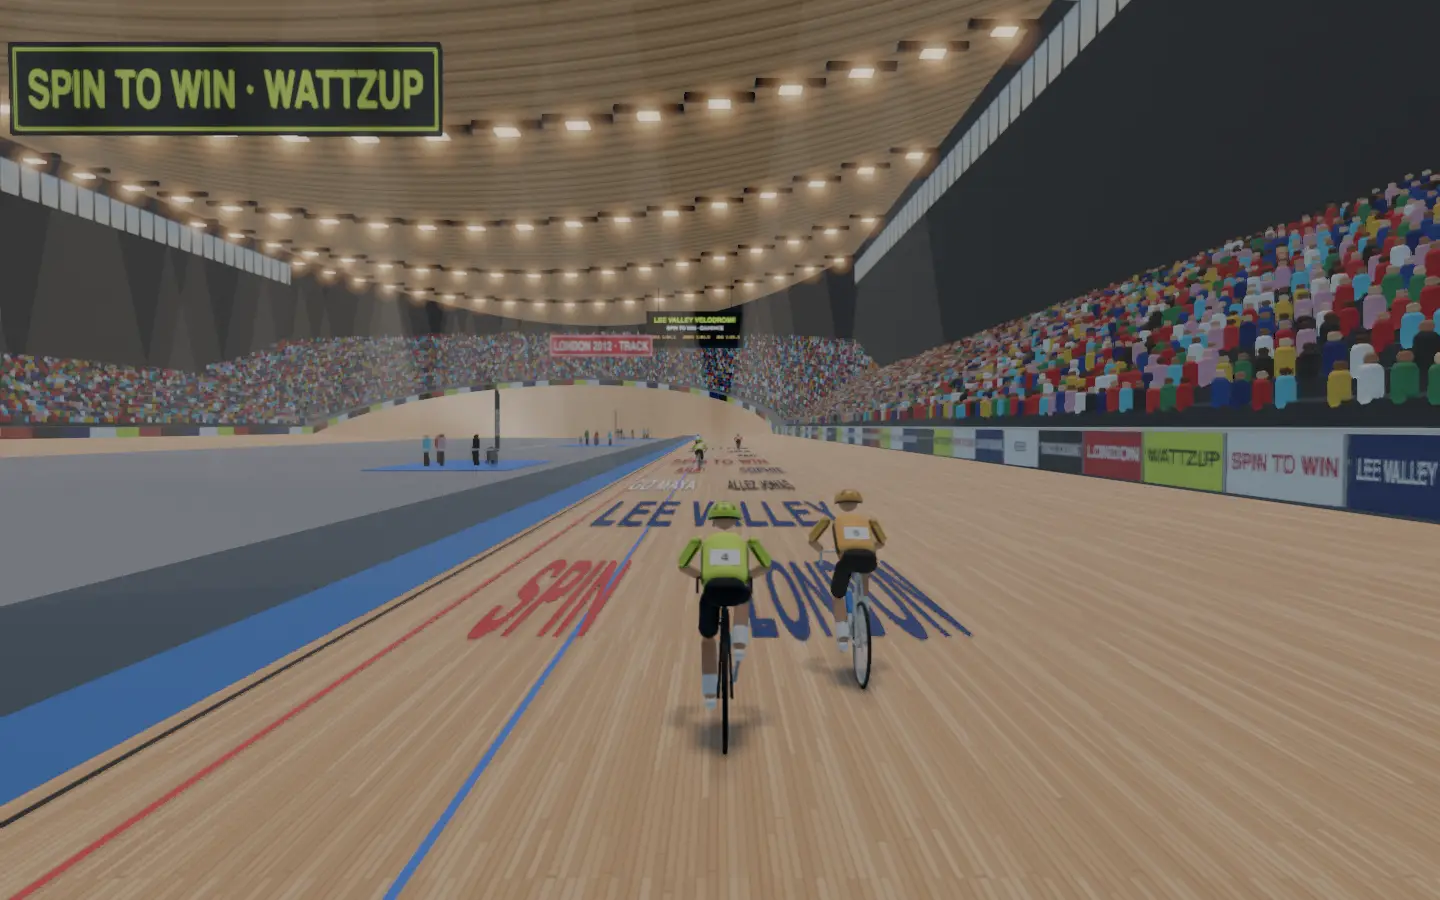
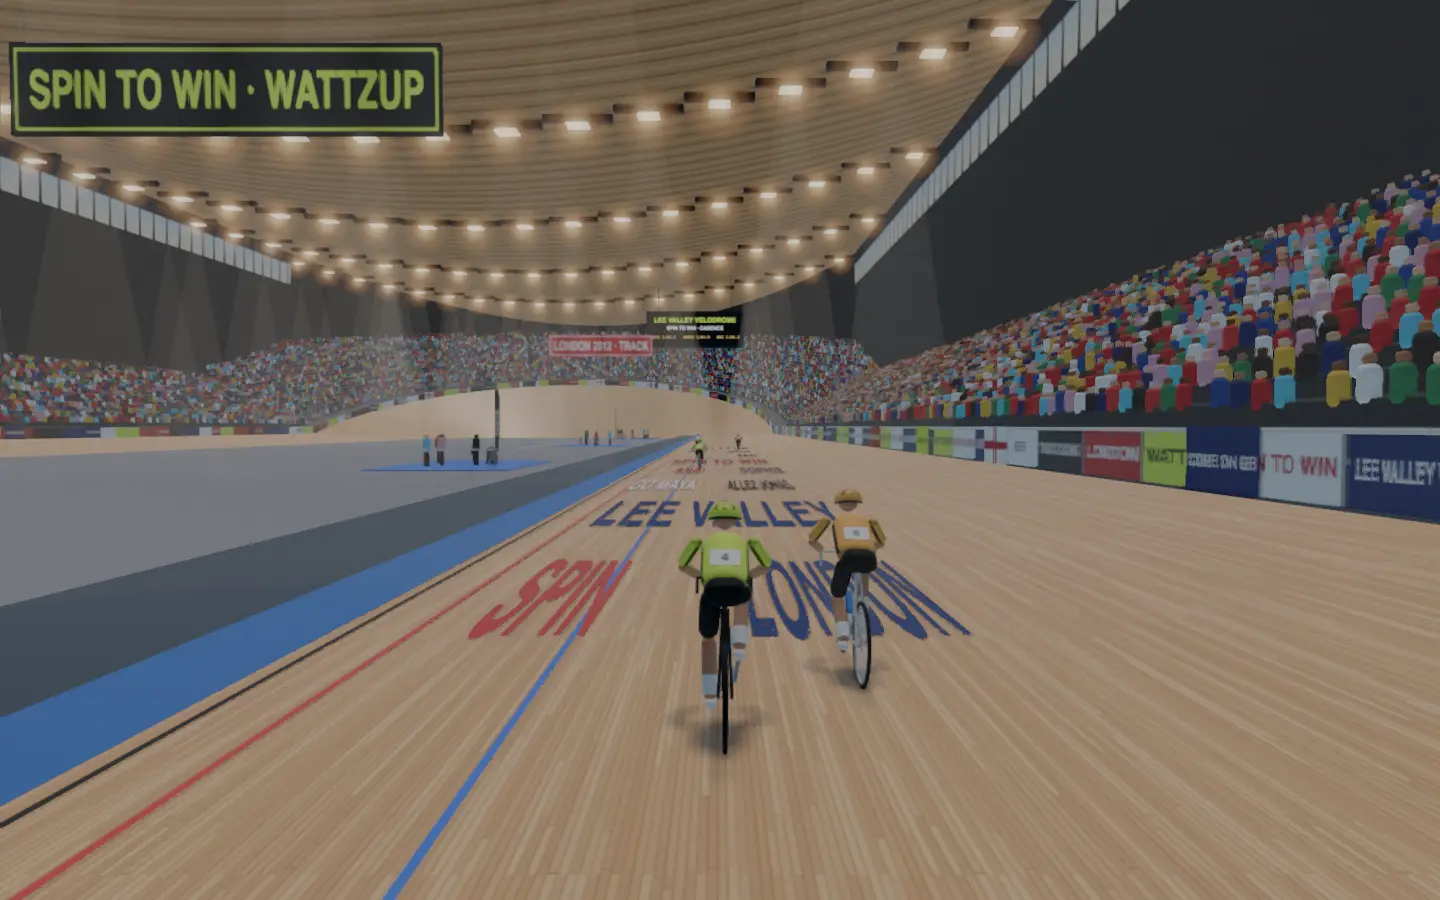
Drape the fans' flags over Lee Valley's fence

diff --git a/frontend/projects/wattzup/src/app/core/world-velodrome.ts b/frontend/projects/wattzup/src/app/core/world-velodrome.ts
@@ -140,6 +140,9 @@ export class VelodromeStreet implements SceneStreet {
   private readonly ribbons: Ribbons;
   private readonly props: Prop[] = [];
   private readonly horizon = new Group();
+  /** A fan's flag draped over the fence, and the flags and banners the fans bring. */
+  private readonly drape = new PlaneGeometry(1.8, 1.1);
+  private flags: MeshStandardMaterial[] = [];
   /** The roof's and the walls' textures, slid along as the rider rides. */
   private readonly sliding: { texture: Texture; every: number }[] = [];
 
@@ -152,6 +155,11 @@ export class VelodromeStreet implements SceneStreet {
   }
 
   build(roadHalf: number, points: number): void {
+    this.disposables.push(this.drape);
+    this.flags = FAN_FLAGS.map((draw) => {
+      const map = this.track(canvasTexture(240, 150, draw));
+      return this.material({ map, roughness: 0.85, side: DoubleSide });
+    });
     this.addTrack(roadHalf, points);
     this.addStands();
     this.addBackStraight();
@@ -297,6 +305,18 @@ export class VelodromeStreet implements SceneStreet {
       figures.set(i, x, y, z, side > 0 ? Math.PI / 2 : -Math.PI / 2, 0.8 + random() * 0.12),
     );
     figures.commit();
+    // The fans' flags draped over the fence from its rail, on the track's side.
+    const top = RISE + 1.1;
+    for (
+      let z = -STAND_CHUNK / 2 + 4 + random() * 4;
+      z < STAND_CHUNK / 2 - 3;
+      z += 7 + random() * 6
+    ) {
+      const flag = new Mesh(this.drape, this.flags[Math.floor(random() * this.flags.length)]!);
+      flag.rotation.y = side > 0 ? -Math.PI / 2 : Math.PI / 2;
+      flag.position.set(-side * 1.66, top - 0.55, z);
+      holder.add(flag);
+    }
     return holder;
   }
 
@@ -678,6 +698,18 @@ export class VelodromeStreet implements SceneStreet {
       figures.set(i, x, y, z, heading, 0.8 + random() * 0.12);
     });
     figures.commit();
+    // The fans' flags draped over the bend's fence, facing the infield.
+    for (let phi = 0.15; phi < Math.PI - 0.1; phi += 0.11 + random() * 0.08) {
+      const radius = R_OUT - 0.06;
+      const flag = new Mesh(this.drape, this.flags[Math.floor(random() * this.flags.length)]!);
+      flag.position.set(
+        BEND_X + radius * Math.cos(phi),
+        top(phi) + 1.1 - 0.55,
+        -radius * Math.sin(phi),
+      );
+      flag.rotation.y = Math.atan2(BEND_X - flag.position.x, -flag.position.z);
+      h.add(flag);
+    }
     // The wall behind the stands, up to the roof.
     const back = R_OUT + 1.6 + BEND_ROWS * ROW_DEPTH + 1;
     const wallMap = this.track(wallTexture(roofAt(BEND_X)));
@@ -755,6 +787,57 @@ export class VelodromeStreet implements SceneStreet {
     this.disposables.push(material);
     return material;
   }
+}
+
+/** The fans' flags: the Union flag, England's cross, and banners for the riders and the track. */
+const FAN_FLAGS: readonly ((g: CanvasRenderingContext2D) => void)[] = [
+  (g) => {
+    // The Union flag.
+    g.fillStyle = '#012169';
+    g.fillRect(0, 0, 240, 150);
+    g.lineCap = 'butt';
+    for (const [w, colour] of [
+      [30, '#ffffff'],
+      [10, '#c8102e'],
+    ] as const) {
+      g.strokeStyle = colour;
+      g.lineWidth = w;
+      g.beginPath();
+      g.moveTo(0, 0);
+      g.lineTo(240, 150);
+      g.moveTo(240, 0);
+      g.lineTo(0, 150);
+      g.stroke();
+    }
+    g.fillStyle = '#ffffff';
+    g.fillRect(100, 0, 40, 150);
+    g.fillRect(0, 55, 240, 40);
+    g.fillStyle = '#c8102e';
+    g.fillRect(108, 0, 24, 150);
+    g.fillRect(0, 63, 240, 24);
+  },
+  (g) => {
+    // England's cross of St George.
+    g.fillStyle = '#ffffff';
+    g.fillRect(0, 0, 240, 150);
+    g.fillStyle = '#c8102e';
+    g.fillRect(104, 0, 32, 150);
+    g.fillRect(0, 59, 240, 32);
+  },
+  (g) => banner(g, '#d7ff3a', '#1b1e24', 'GO MAYA!'),
+  (g) => banner(g, '#012169', '#ffffff', 'COME ON GB'),
+  (g) => banner(g, '#c8102e', '#ffffff', 'ALLEZ JONAS'),
+];
+
+/** A fan's hand-made banner: big letters on a bright sheet. */
+function banner(g: CanvasRenderingContext2D, fill: string, ink: string, text: string): void {
+  g.fillStyle = fill;
+  g.fillRect(0, 0, 240, 150);
+  g.fillStyle = ink;
+  g.font = 'bold 40px sans-serif';
+  g.textAlign = 'center';
+  g.textBaseline = 'middle';
+  g.fillText(text, 120, 78, 224);
 }
 
 /**

diff --git a/docs/class-worlds.md b/docs/class-worlds.md
@@ -58,7 +58,7 @@ Every class in `frontend/public/classes.json`, with its World Ride scene. Render
 | 52 | Sprint Into the Effort | Dubai Marina | 80% | The marina walk runs along the water at dusk between the glass towers of Dubai Marina, superyachts moored at the pontoons and palms in their planters, as a crowd in white kandura and bright summer colours lines the barriers and the twisting Cayan Tower glows against the orange and violet sky ahead. The two minutes' warm-up rolls out under the first sprint banner, the half-minute sprints flash past the yachts at full gas, and the three-minute efforts hold the pace past the lit cafés of the podium before the easy minutes spin beneath the towers. |
 | 53 | 20/40 Interval Session | Sea Point, Cape Town | 74% | Promenade beneath Lion's Head and Table Mountain, Atlantic waves rolling in. |
 | 54 | Time to Spin Out | Overseas Highway (concept) |  | Turquoise water on both sides along the Florida Keys' Seven Mile Bridge. |
-| 55 | Spin to Win Cadence Session | Lee Valley Velodrome | 79% | The pale pine boards of London's Olympic velodrome sweep up into the steep banked bends under the bright arena lights and the curved timber roof, as the packed stands roar above the fence and the teams wait with their bikes in the infield. The minute's warm-up rolls round the black line, the one-minute efforts lift the cadence up the banking toward the stayers' line, and the long efforts of three and a half minutes hold the spin down the straights before the easy minutes drop back to the blue band. |
+| 55 | Spin to Win Cadence Session | Lee Valley Velodrome | 80% | The pale pine boards of London's Olympic velodrome sweep up into the steep banked bends under the bright arena lights and the curved timber roof, as the packed stands roar above the fence and the teams wait with their bikes in the infield. The minute's warm-up rolls round the black line, the one-minute efforts lift the cadence up the banking toward the stayers' line, and the long efforts of three and a half minutes hold the spin down the straights before the easy minutes drop back to the blue band. |
 | 56 | High Intensity, Short Rest | Montreal Jazz Fest | 72% | Downtown stages and street crowds in summer; short rests between sets. |
 | 57 | Full Gas Sprints | Isle of Man Mountain Course (concept) |  | Stone walls and Snaefell's mountain road on the famous motorcycle course. |
 | 58 | Spin to Win | Coney Island Boardwalk (concept) |  | Wooden boardwalk, roller coaster and Wonder Wheel on the Brooklyn shore. |

diff --git a/docs/detailed-designs/world-ride/draw-class-scene/README.md b/docs/detailed-designs/world-ride/draw-class-scene/README.md
@@ -546,7 +546,7 @@ None.
   - the green ridges and the summit ahead, and banks of low cloud drifting up the mountain on the ride's clock, keeping their bearing.
 - **Lee Valley Velodrome (`core/world-velodrome.ts`).** For `velodrome`, London's Olympic track indoors under the arena lights:
   - the home straight's pale Siberian pine boards laid along the track, flat where the riders ride and rising 1 m to the fence 8 m off the crown, the black measurement line, the red sprinters' line and the blue stayers' line underfoot, the blue côte d'azur and the safety zone inside them, names and sponsors painted on the boards every 9 m (GO MAYA, SPIN, LONDON and more), every third row a slogan right across (LEE VALLEY, SPIN TO WIN, WATTZUP), laid by the kit's painted rows;
-  - the fence along the top of the banking hung with the event's boards (LEE VALLEY VELOPARK, SPIN TO WIN, WATTZUP, LONDON, TRACK CYCLING, GB) under a white rail, and banners hung from the roof over the infield (LEE VALLEY VELOPARK, SPIN TO WIN · WATTZUP, LONDON 2012 · TRACK);
+  - the fence along the top of the banking hung with the event's boards (LEE VALLEY VELOPARK, SPIN TO WIN, WATTZUP, LONDON, TRACK CYCLING, GB) under a white rail, the fans' flags draped over it from the rail on the track's side every 7 to 13 m along both straights and round the bend (the Union flag, England's cross, and hand-made banners: GO MAYA!, COME ON GB, ALLEZ JONAS), and banners hung from the roof over the infield (LEE VALLEY VELOPARK, SPIN TO WIN · WATTZUP, LONDON 2012 · TRACK);
   - the stands above the fence: fourteen stepped rows of dark seats, a spectator (the kit's figures) in nearly every one in GB red, white and blue and club colours, facing the boards;
   - the infield: the teams' pens on blue floor behind a low rail, bikes and spare wheels, the staff, and the kit's feather flags in the teams' colours, and across it the back straight's banked boards, its fence and its own packed stands;
   - the hall: the curved timber roof sagging over the infield and rising to the side walls, its slats glowing warm, and the arena's lights under it: a steel gantry across the hall every 25 m with a bright lamp every 5 m, each with its halo (the kit's `haloTexture`, moved from Ibiza) and every other one over the track and infield a faint beam falling through the haze, the walls behind the stands with the concourse's glazed band, slid along as the rider rides;
